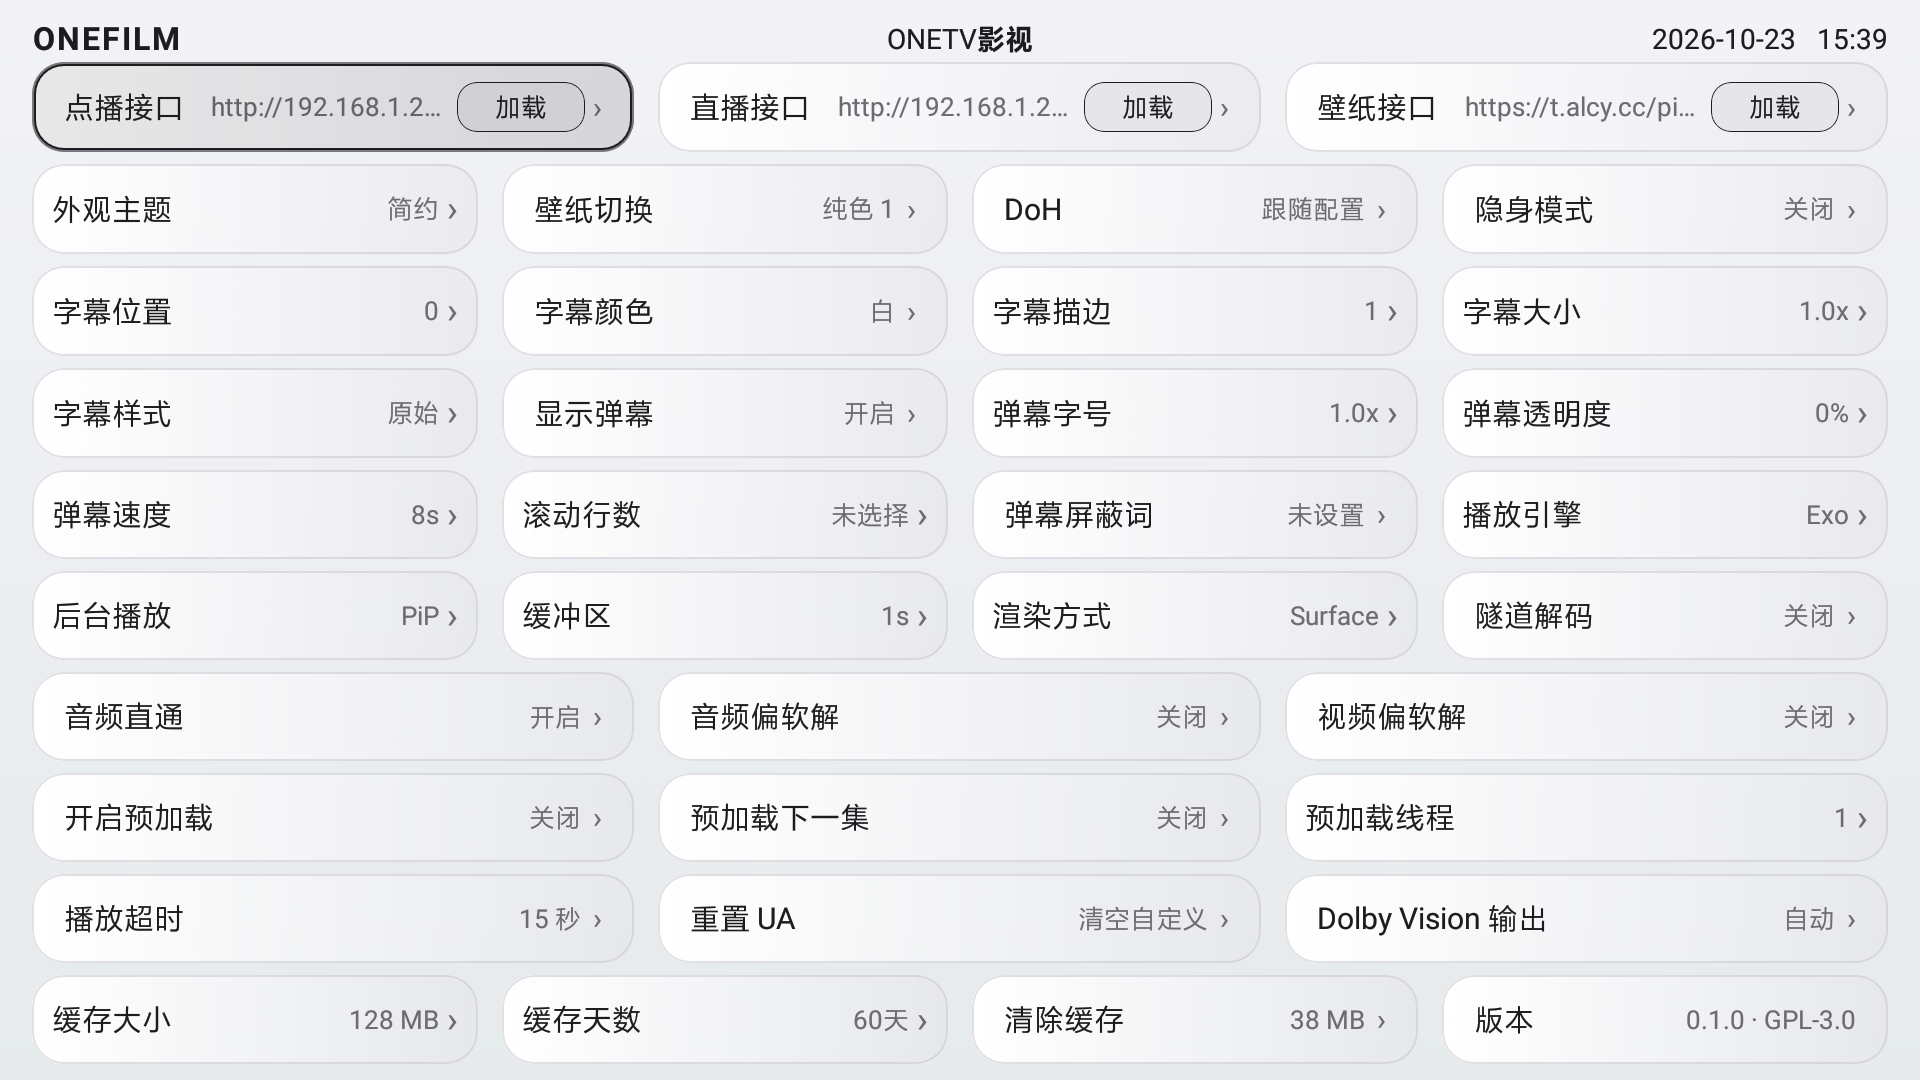
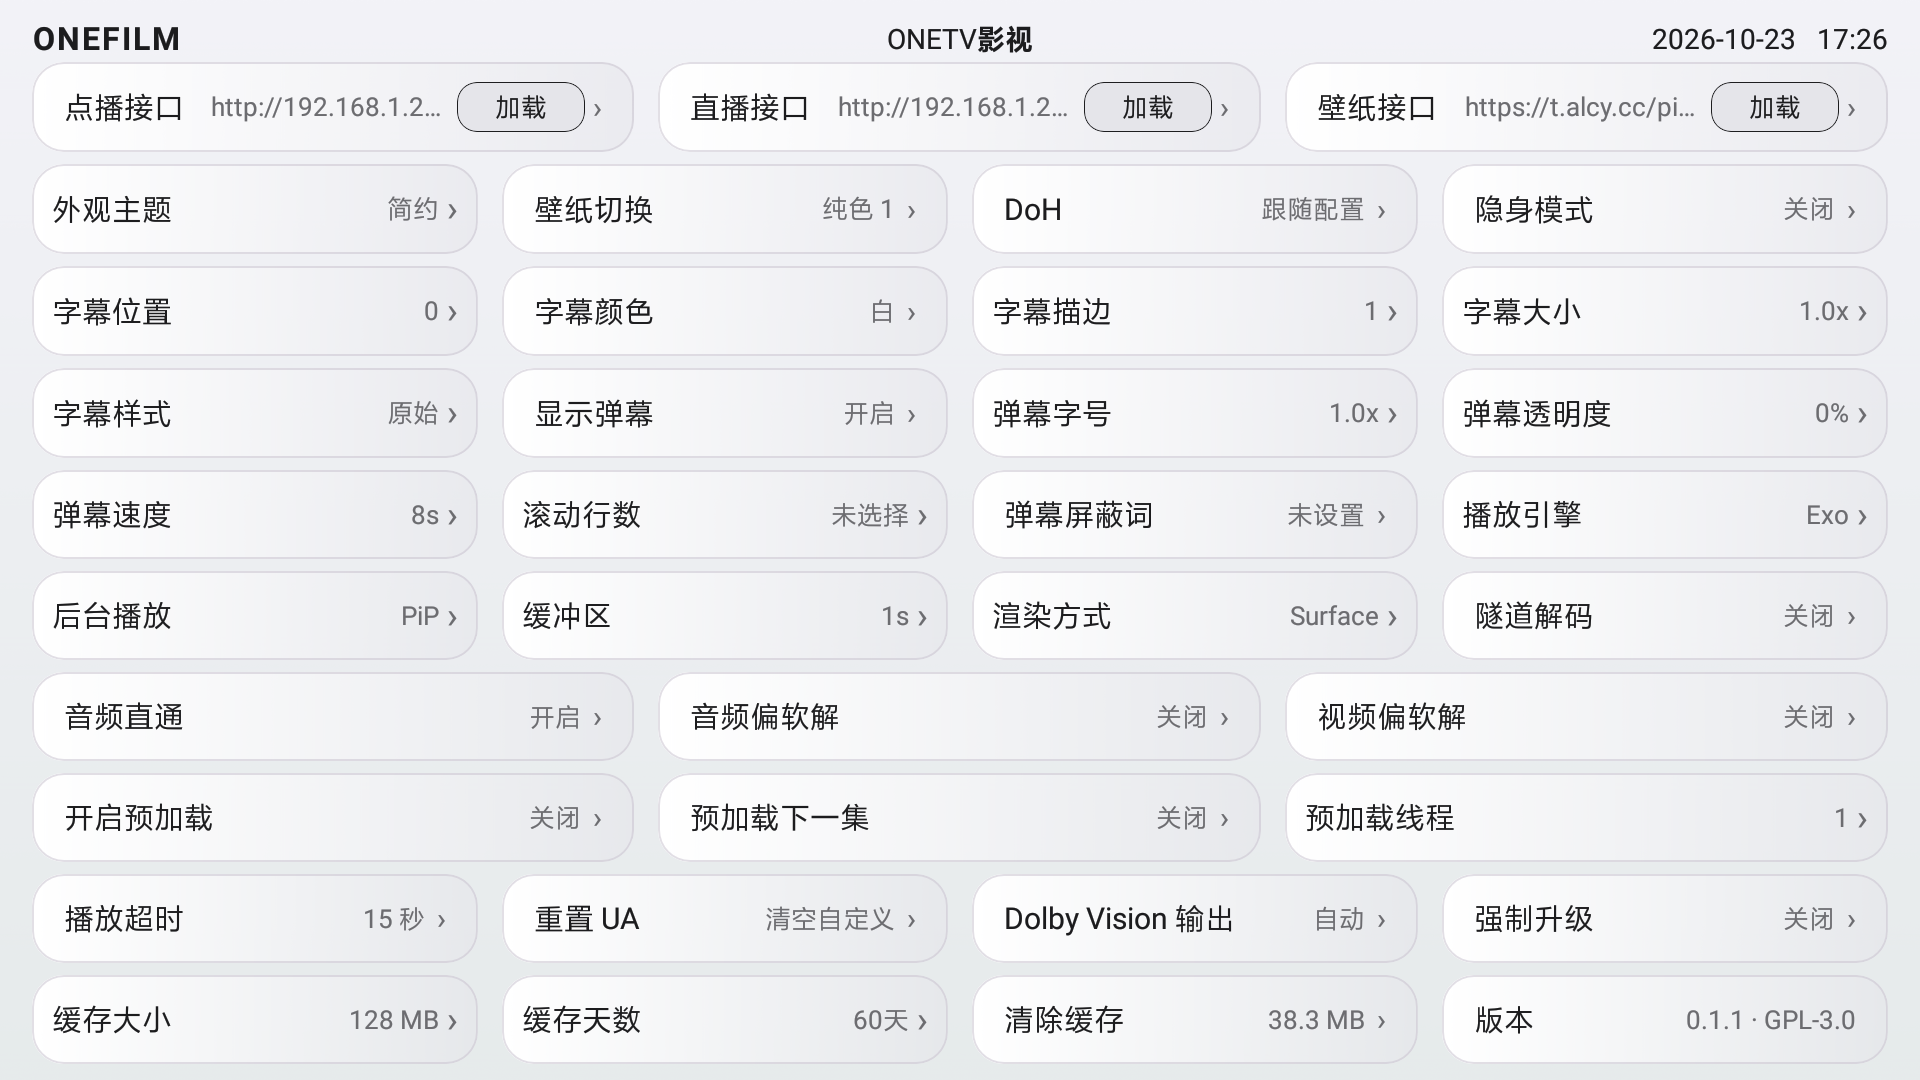
增加直播列表不透明背景与强制升级设置，版本升级到 0.1.1

diff --git a/compose/src/main/java/com/onefilm/android/tv/compose/host/AppDialogs.kt b/compose/src/main/java/com/onefilm/android/tv/compose/host/AppDialogs.kt
@@ -126,16 +126,20 @@ fun UpdatePromptDialog(
     notes: String,
     progress: Int,
     error: String?,
+    force: Boolean,
     onConfirm: () -> Unit,
     onDismiss: () -> Unit,
 ) {
     val cancelFocus = remember { FocusRequester() }
+    val confirmFocus = remember { FocusRequester() }
+    val autoStarted = remember { mutableStateOf(false) }
     val downloading = progress >= 0
     Dialog(
-        onDismissRequest = { if (!downloading) onDismiss() },
+        onDismissRequest = { if (!force && !downloading) onDismiss() },
         properties = DialogProperties(
             usePlatformDefaultWidth = false,
             dismissOnClickOutside = false,
+            dismissOnBackPress = !force,
         ),
     ) {
         Box(
@@ -162,6 +166,14 @@ fun UpdatePromptDialog(
                         fontWeight = FontWeight.SemiBold,
                         color = MaterialTheme.colorScheme.onSurface,
                     )
+                    if (force) {
+                        Spacer(Modifier.height(4.dp))
+                        Text(
+                            text = "当前已启用强制升级，更新完成后才能继续使用。",
+                            fontSize = 13.sp,
+                            color = MaterialTheme.colorScheme.error,
+                        )
+                    }
                     Spacer(Modifier.height(6.dp))
                     Text(
                         text = notes,
@@ -192,15 +204,18 @@ fun UpdatePromptDialog(
                         Modifier.fillMaxWidth(),
                         horizontalArrangement = Arrangement.spacedBy(10.dp),
                     ) {
-                        DialogAction(
-                            label = "稍后",
-                            focusRequester = cancelFocus,
-                            enabled = !downloading,
-                            modifier = Modifier.weight(1f),
-                            onClick = onDismiss,
-                        )
+                        if (!force) {
+                            DialogAction(
+                                label = "稍后",
+                                focusRequester = cancelFocus,
+                                enabled = !downloading,
+                                modifier = Modifier.weight(1f),
+                                onClick = onDismiss,
+                            )
+                        }
                         DialogAction(
                             label = if (downloading) "下载中 $progress%" else "立即更新",
+                            focusRequester = if (force) confirmFocus else null,
                             enabled = !downloading,
                             primary = true,
                             modifier = Modifier.weight(1f),
@@ -213,7 +228,15 @@ fun UpdatePromptDialog(
     }
     LaunchedEffect(Unit) {
         delay(60)
-        runCatching { cancelFocus.requestFocus() }
+        runCatching {
+            if (force) confirmFocus.requestFocus() else cancelFocus.requestFocus()
+        }
+    }
+    LaunchedEffect(force) {
+        if (force && !autoStarted.value) {
+            autoStarted.value = true
+            onConfirm()
+        }
     }
 }
 

diff --git a/compose/src/main/java/com/onefilm/android/tv/compose/host/ComposeMainActivity.kt b/compose/src/main/java/com/onefilm/android/tv/compose/host/ComposeMainActivity.kt
@@ -220,8 +220,8 @@ class ComposeMainActivity : ComponentActivity() {
                 var updateError by remember { mutableStateOf<String?>(null) }
 
                 LaunchedEffect(Unit) {
-                    // 等首屏稳定后再检查更新，避免更新清单请求与首屏重组叠加。
-                    delay(1500)
+                    // 启动进入主界面后等待 60 秒再检查更新，避免打扰首屏播放。
+                    delay(60_000L)
                     runCatching {
                         ComposeDependencies.updateDataSource.check { info -> updateInfo = info }
                     }
@@ -258,7 +258,7 @@ class ComposeMainActivity : ComponentActivity() {
                 }
                 updateInfo?.let { info ->
                     BackHandler(enabled = true) {
-                        if (updateProgress < 0) {
+                        if (!info.force && updateProgress < 0) {
                             updateInfo = null
                             updateError = null
                         }
@@ -268,6 +268,7 @@ class ComposeMainActivity : ComponentActivity() {
                         notes = info.notes,
                         progress = updateProgress,
                         error = updateError,
+                        force = info.force,
                         onConfirm = {
                             updateProgress = 0
                             updateError = null
@@ -285,10 +286,12 @@ class ComposeMainActivity : ComponentActivity() {
                             )
                         },
                         onDismiss = {
-                            ComposeDependencies.updateDataSource.cancelDownload()
-                            updateProgress = -1
-                            updateError = null
-                            updateInfo = null
+                            if (!info.force) {
+                                ComposeDependencies.updateDataSource.cancelDownload()
+                                updateProgress = -1
+                                updateError = null
+                                updateInfo = null
+                            }
                         },
                     )
                 }

diff --git a/compose/src/main/java/com/onefilm/android/tv/compose/feature/settings/SettingsScreen.kt b/compose/src/main/java/com/onefilm/android/tv/compose/feature/settings/SettingsScreen.kt
@@ -567,6 +567,13 @@ ActionRow("壁纸切换", snapshot.wallpaperLabel) { refresh { cycleWallpaper() 
                         value = snapshot.dvPolicyLabel,
                     ) { refresh { cycleDolbyVisionPolicy() } }
                 }
+                SettingBar(Modifier.weight(1f).fillMaxHeight()) {
+                    SwitchRow(
+                        "强制升级",
+                        "检测到新版本后自动下载并强制更新",
+                        snapshot.forceUpdate,
+                    ) { refresh { setForceUpdate(it) } }
+                }
             }
             Row(
                 Modifier.fillMaxWidth().weight(1f),

diff --git a/app/src/main/java/com/onefilm/android/tv/composebridge/AppSettingsDataSource.kt b/app/src/main/java/com/onefilm/android/tv/composebridge/AppSettingsDataSource.kt
@@ -95,6 +95,7 @@ class AppSettingsDataSource : SettingsDataSource {
             5 -> "网络壁纸"
             else -> "纯色 ${Setting.getWall()}"
         },
+        forceUpdate = Setting.getForceUpdate(),
         )
     }
 
@@ -300,6 +301,10 @@ class AppSettingsDataSource : SettingsDataSource {
 
     override fun setIncognito(enabled: Boolean) {
         Setting.putIncognito(enabled)
+    }
+
+    override fun setForceUpdate(enabled: Boolean) {
+        Setting.putForceUpdate(enabled)
     }
 
     override fun setThemeMode(mode: Int) {

diff --git a/compose/src/main/java/com/onefilm/android/tv/compose/bridge/SettingsDataSource.kt b/compose/src/main/java/com/onefilm/android/tv/compose/bridge/SettingsDataSource.kt
@@ -39,6 +39,7 @@ data class SettingsSnapshot(
     val cacheDays: Int,
     val cacheSizeLabel: String,
     val wallpaperLabel: String,
+    val forceUpdate: Boolean,
 )
 
 data class ConfigLine(
@@ -94,6 +95,7 @@ interface SettingsDataSource {
     fun cycleDoh()
     fun cyclePlayTimeout()
     fun setIncognito(enabled: Boolean)
+    fun setForceUpdate(enabled: Boolean)
     fun configPushUrl(): String
     fun qrBitmap(content: String, size: Int): Bitmap?
     fun setThemeMode(mode: Int)

diff --git a/app/src/main/java/com/onefilm/android/tv/composebridge/AppUpdateDataSource.kt b/app/src/main/java/com/onefilm/android/tv/composebridge/AppUpdateDataSource.kt
@@ -27,6 +27,7 @@ class AppUpdateDataSource : UpdateDataSource {
                     version = info.version,
                     notes = info.notes.ifBlank { "发现新版本，建议更新后再使用。" },
                     url = info.url,
+                    force = Setting.getForceUpdate(),
                 )
             } else {
                 null

diff --git a/compose/src/main/java/com/onefilm/android/tv/compose/bridge/UpdateDataSource.kt b/compose/src/main/java/com/onefilm/android/tv/compose/bridge/UpdateDataSource.kt
@@ -4,6 +4,7 @@ data class UpdateInfo(
     val version: String,
     val notes: String,
     val url: String,
+    val force: Boolean,
 )
 
 /**

diff --git a/app/src/main/java/com/onefilm/android/tv/setting/Setting.java b/app/src/main/java/com/onefilm/android/tv/setting/Setting.java
@@ -129,6 +129,14 @@ public class Setting {
         Prefers.put("update", update);
     }
 
+    public static boolean getForceUpdate() {
+        return Prefers.getBoolean("force_update", false);
+    }
+
+    public static void putForceUpdate(boolean forceUpdate) {
+        Prefers.put("force_update", forceUpdate);
+    }
+
     public static boolean isAdblock() {
         return Prefers.getBoolean("adblock", true);
     }

diff --git a/README.md b/README.md
@@ -53,8 +53,8 @@
 ## 开始使用
 
 1. 从 [GitHub Releases](https://github.com/Viciy2023/Onefilm/releases) 下载适合设备的 APK：
-   - 电视/盒子：`OneFilm-TV-v0.1.0-*.apk`
-   - 手机/平板：`OneFilm-Mobile-v0.1.0-*.apk`
+   - 电视/盒子：`OneFilm-TV-v0.1.1-*.apk`
+   - 手机/平板：`OneFilm-Mobile-v0.1.1-*.apk`
 2. 安装后打开壹影。
 3. 在“配置”或“设置”中导入你自己的合法影视/直播接口。
 4. 回到首页，搜索或浏览想看的内容。
